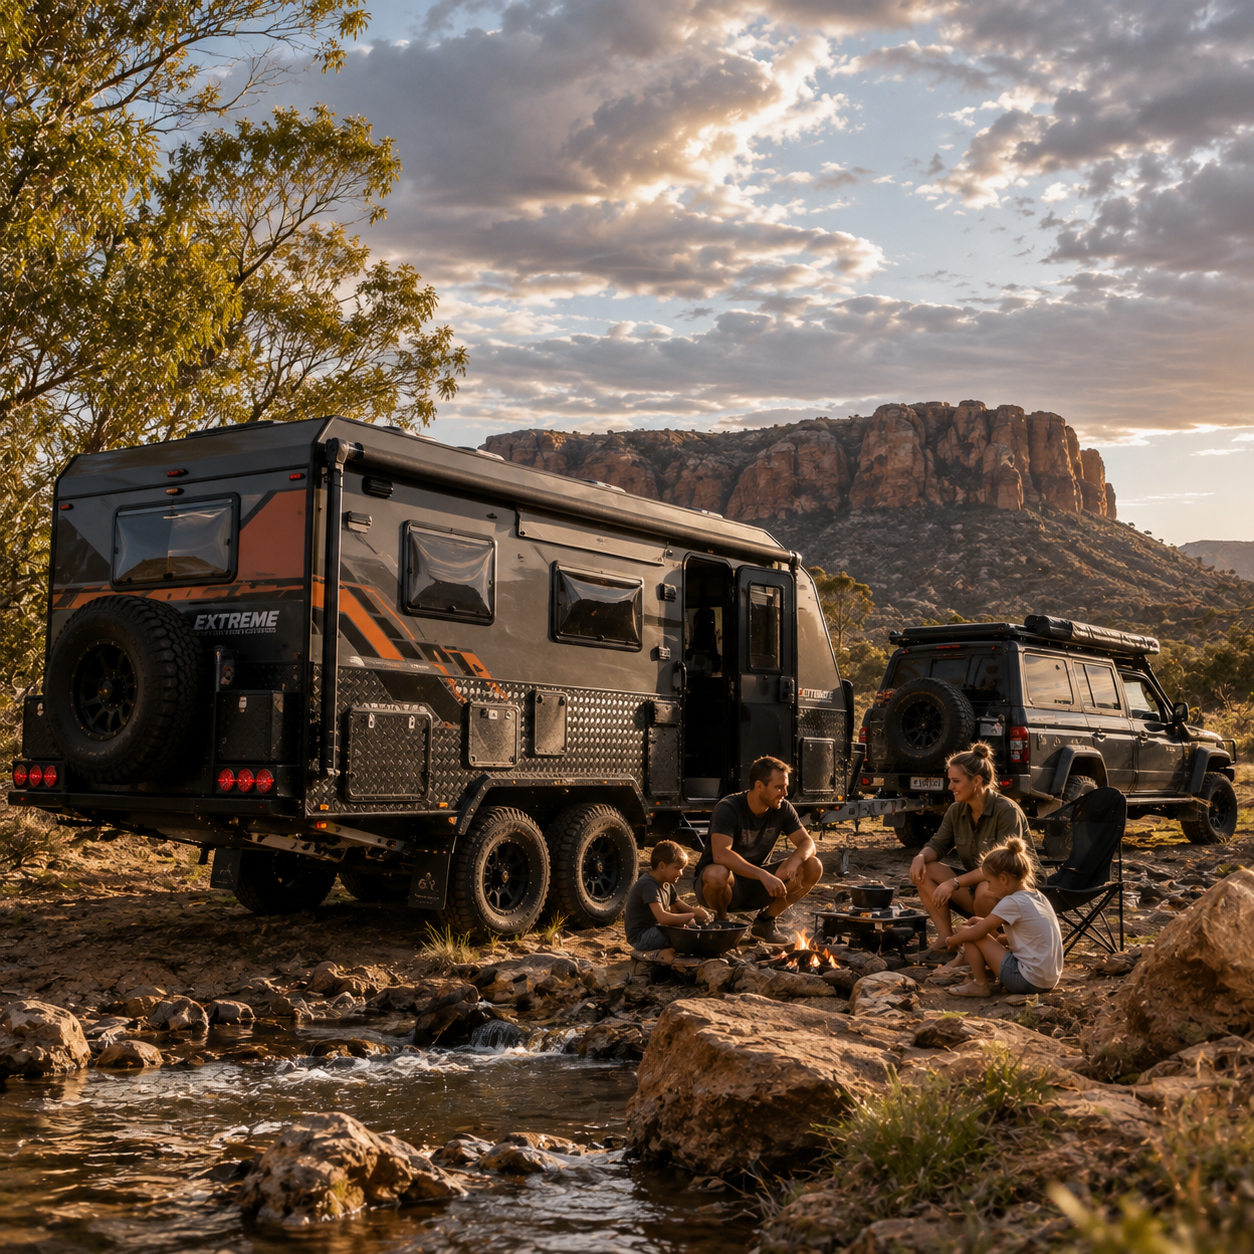
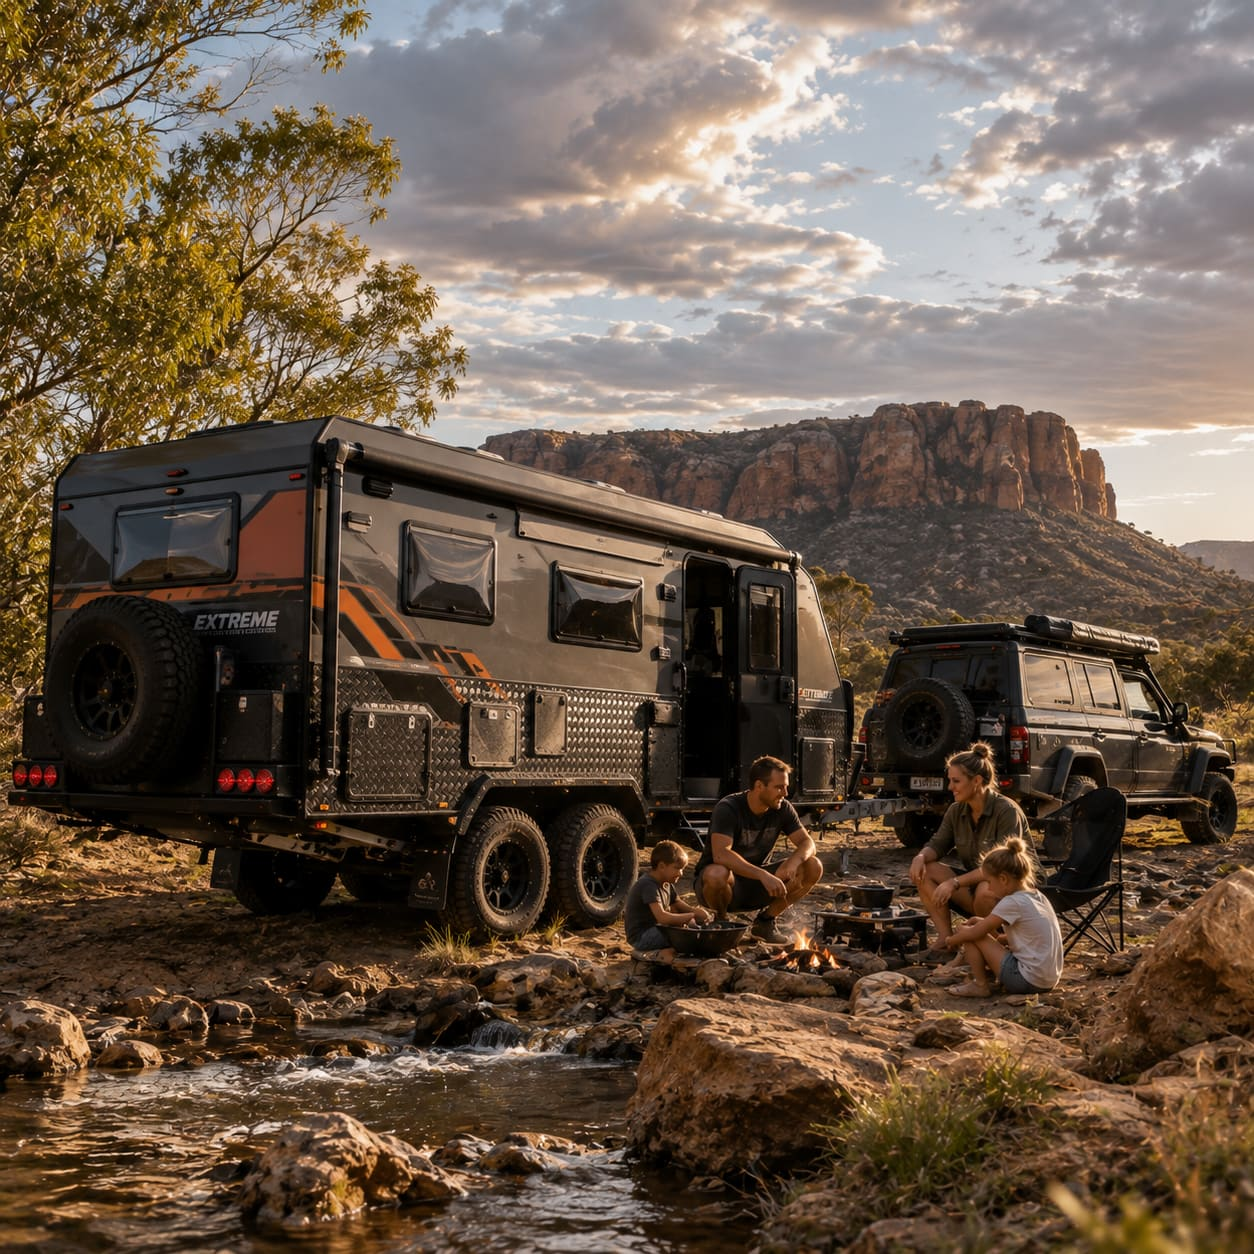
Fix Ahrefs on-page issues: OG/Twitter tags, blog meta fallbacks, email obfuscation, links, images
- og/twitter tags for listings and static pages; blog pages get fallback
  title/description and full OG/Twitter metadata
- ObfuscatedEmail replaces raw emails (Cloudflare email-protection 404)
- trailing slash on policy links, skeleton h1 -> div on product pages
- blog location pills hide empty (410) category combinations
- recompress oversized public images

diff --git a/src/app/layout.tsx b/src/app/layout.tsx
@@ -235,8 +235,9 @@ const RESERVED_TOP_LEVEL_SLUGS = new Set([
     }
 
     // Static pages whose metadata ends up after </head> due to streaming — inject directly
-    const STATIC_META: Record<string, { title: string; description: string; canonical: string }> = {
+    const STATIC_META: Record<string, { title: string; description: string; canonical: string; ownSocialImage?: boolean }> = {
       "/caravan-manufacturers/": {
+        ownSocialImage: true, // page.tsx metadata renders og:image + twitter card
         title: "Top 10 Caravan Manufacturers in Australia: Best Brands of 2024",
         description: "See how top Australian caravan manufacturers excel with the best in innovative designs, quality construction, cost efficiency, and expert craftsmanship.",
         canonical: "https://www.caravansforsale.com.au/caravan-manufacturers/",
@@ -248,6 +249,26 @@ const RESERVED_TOP_LEVEL_SLUGS = new Set([
       },
     };
     const staticMeta = STATIC_META[pathname] ?? null;
+
+    // og:type / og:image / twitter:card / twitter:image for pages whose head tags are
+    // injected here (listings, static pages) — without them Ahrefs flags Open Graph and
+    // X (Twitter) card tags as incomplete. Same image the home page and metaFromSlug use.
+    const SOCIAL_IMAGE = "https://www.caravansforsale.com.au/images/cfs-logo.png";
+    const SOCIAL_IMAGE_ALT = "Caravans for Sale Australia";
+    const socialTags = (
+      <>
+        <meta property="og:type" content="website" />
+        <meta property="og:image" content={SOCIAL_IMAGE} />
+        <meta property="og:image:width" content="800" />
+        <meta property="og:image:height" content="600" />
+        <meta property="og:image:alt" content={SOCIAL_IMAGE_ALT} />
+        <meta name="twitter:card" content="summary_large_image" />
+        <meta name="twitter:image" content={SOCIAL_IMAGE} />
+        <meta name="twitter:image:width" content="800" />
+        <meta name="twitter:image:height" content="600" />
+        <meta name="twitter:image:alt" content={SOCIAL_IMAGE_ALT} />
+      </>
+    );
 
     let productMeta = { title: "", description: "", canonical: "", ogImage: "" };
     let productJsonLd: Record<string, unknown> | null = null;
@@ -378,6 +399,7 @@ const RESERVED_TOP_LEVEL_SLUGS = new Set([
           {staticMeta && <meta property="og:url" content={staticMeta.canonical} />}
           {staticMeta && <meta name="twitter:title" content={staticMeta.title} />}
           {staticMeta && <meta name="twitter:description" content={staticMeta.description} />}
+          {staticMeta && !staticMeta.ownSocialImage && socialTags}
           {/* Product page SEO — injected here to avoid metadata-in-body streaming issue */}
           {isProductPage && productMeta.title && <title>{productMeta.title}</title>}
           {isProductPage && productMeta.description && <meta name="description" content={productMeta.description} />}
@@ -399,6 +421,7 @@ const RESERVED_TOP_LEVEL_SLUGS = new Set([
           {hasSlugMeta && slugCanonical && <meta property="og:url" content={slugCanonical} />}
           {hasSlugMeta && slugTitle && <meta name="twitter:title" content={slugTitle} />}
           {hasSlugMeta && slugDescription && <meta name="twitter:description" content={slugDescription} />}
+          {hasSlugMeta && socialTags}
           {/* Home page JSON-LD */}
           {isHomePage && (
             <script

diff --git a/src/app/[slug]/details.tsx b/src/app/[slug]/details.tsx
@@ -10,6 +10,7 @@
  import { useEffect, useRef, useState } from "react";
  import { formatPostDate } from "@/utils/date";
  import { useBanners } from "@/components/BannerHandler";
+import liveCategoryLinks from "../../../cfs-paths/live-category-links.json";
  import { useBannerTracking } from "@/hooks/useBannerTracking";
  
  // WP occasionally stores an image URL with a doubled protocol
@@ -28,7 +29,15 @@
    regions?: BrowseLink[];
  };
  
- const CAT_MAJOR_CITIES = [
+ // Category + state / region combinations that currently have stock (snapshot kept fresh by
+// scripts/sync-live-listings.js). The "by location" / "by state" blocks only link to these —
+// an empty combination answers 410, which showed up as hundreds of broken internal links.
+// An empty snapshot (should never happen) keeps every link.
+const LIVE_CAT_LINKS = new Set<string>(liveCategoryLinks as string[]);
+const hasStock = (href: string) =>
+  LIVE_CAT_LINKS.size === 0 || LIVE_CAT_LINKS.has(href.replace(/^https?:\/\/[^/]+/, ""));
+
+const CAT_MAJOR_CITIES = [
    { name: "Adelaide",       img: "/images/Adelaide.png",   state: "south-australia-state",           region: "adelaide-region" },
    { name: "Brisbane",       img: "/images/Brisbane.png",   state: "queensland-state",                region: "brisbane-region" },
    { name: "Gold Coast",     img: "/images/Gold-Coast.png", state: "queensland-state",                region: "gold-coast-region" },
@@ -694,7 +703,7 @@
            <div className="container">
              <h2 className="bds-cat-title">Find {catLabel} Caravans by Popular Location</h2>
              <div className="bds-cat-loc__major">
-               {CAT_MAJOR_CITIES.map((city) => (
+               {CAT_MAJOR_CITIES.filter((city) => hasStock(`${catLink}${city.state}/${city.region}/`)).map((city) => (
                  <a key={city.name} href={`${catLink}${city.state}/${city.region}/`} className="bds-cat-city-card">
                    <div className="bds-cat-city-img-wrap">
                      <img src={city.img} alt={city.name} className="bds-cat-city-img" loading="lazy" />
@@ -704,7 +713,7 @@
                ))}
              </div>
              <div className="bds-cat-loc__minor">
-               {CAT_MINOR_CITIES.map((city) => (
+               {CAT_MINOR_CITIES.filter((city) => hasStock(`${catLink}${city.state}/${city.region ? city.region + "/" : ""}`)).map((city) => (
                  <a key={city.name} href={`${catLink}${city.state}/${city.region ? city.region + "/" : ""}`} className="bds-cat-minor-pill">
                    {catLabel} Caravans in {city.name}
                  </a>
@@ -720,7 +729,7 @@
            <div className="container">
              <h2 className="bds-cat-title">Find {catLabel} Caravans by State</h2>
              <div className="bds-cat-state__grid">
-               {CAT_STATES.map((s) => (
+               {CAT_STATES.filter((s) => hasStock(`${catLink}${s.slug}/`)).map((s) => (
                  <a key={s.name} href={`${catLink}${s.slug}/`} className="bds-cat-state-card">
                    <img src={s.img} alt={s.name} className="bds-cat-state-img" loading="lazy" />
                    <span className="bds-cat-state-name">{catLabel} Caravans in {s.name}</span>

diff --git a/src/app/[slug]/page.tsx b/src/app/[slug]/page.tsx
@@ -50,9 +50,19 @@ export async function generateMetadata({
   const data = await fetchBlogDetail(slug);
 
   const seo = data?.seo ?? data?.product?.seo ?? {};
+  // The blog API nests the post under data.blog_detail; many posts have no SEO title /
+  // description set (seo.metatitle is null), so fall back to the post's own title and
+  // excerpt before the generic strings (otherwise ~100 pages showed "Product - Caravans
+  // for Sale" / "View caravan details.").
+  const post = data?.data?.blog_detail ?? {};
+  const excerpt =
+    typeof post.excerpt === "string"
+      ? post.excerpt.replace(/<[^>]*>/g, " ").replace(/&nbsp;/g, " ").replace(/\s+/g, " ").trim()
+      : "";
   const title =
     seo.metatitle ||
     seo.meta_title ||
+    post.title ||
     data?.title ||
     data?.name ||
     "Product - Caravans for Sale";
@@ -60,10 +70,15 @@ export async function generateMetadata({
   const description =
     seo.metadescription ||
     seo.meta_description ||
+    (excerpt.length > 155 ? excerpt.slice(0, 152).replace(/\s+\S*$/, "") + "..." : excerpt) ||
     data?.short_description ||
     "View caravan details.";
   const robots = "index, follow";
   const canonicalUrl = `https://www.caravansforsale.com.au/${slug}/`;
+  const ogImage: string =
+    (typeof post.featured_image === "string" && post.featured_image) ||
+    (typeof post.image === "string" && post.image) ||
+    "https://www.caravansforsale.com.au/images/cfs-logo.png";
   console.log("generateMetadata", { title, description, robots, canonicalUrl });
   return {
     title,
@@ -78,14 +93,15 @@ export async function generateMetadata({
     openGraph: {
       title,
       description,
+      url: canonicalUrl,
+      type: "article",
+      images: [{ url: ogImage }],
     },
     twitter: {
-      card: "summary", // no image card
+      card: "summary_large_image",
       title,
       description,
-    },
-    other: {
-      "og:type": "blog",
+      images: [ogImage],
     },
   };
 }

diff --git a/src/app/components/ObfuscatedEmail.tsx b/src/app/components/ObfuscatedEmail.tsx
@@ -1,0 +1,47 @@
+"use client";
+
+import { useEffect, useState } from "react";
+
+/**
+ * Shows an email address as a mailto: link without ever putting the address
+ * in the server-rendered HTML.
+ *
+ * Cloudflare's Email Address Obfuscation rewrites every address / mailto: link
+ * it finds in the HTML into /cdn-cgi/l/email-protection, a URL that is 404 to
+ * crawlers (Ahrefs reports it as a broken internal link on each page that has
+ * an address). The server HTML splits the address around a <span> so there is
+ * nothing for Cloudflare to match; once mounted, the real mailto: link is
+ * rendered in its place.
+ */
+export default function ObfuscatedEmail({
+  user,
+  domain,
+  newTab = false,
+}: {
+  user: string;
+  domain: string;
+  newTab?: boolean;
+}) {
+  const [ready, setReady] = useState(false);
+  useEffect(() => setReady(true), []);
+
+  if (!ready) {
+    return (
+      <span>
+        {user}
+        <span>@</span>
+        {domain}
+      </span>
+    );
+  }
+
+  const address = `${user}@${domain}`;
+  return (
+    <a
+      href={`mailto:${address}`}
+      {...(newTab && { target: "_blank", rel: "noreferrer noopener" })}
+    >
+      {address}
+    </a>
+  );
+}

diff --git a/src/app/components/ListContent/exculsiveContent.tsx b/src/app/components/ListContent/exculsiveContent.tsx
@@ -819,15 +819,15 @@ export default function ExculisiveContent({
                   <p className="terms_text">
                     By clicking &lsquo;Send Enquiry&lsquo;, you agree to Caravan
                     Marketplace{" "}
-                    <Link href="/privacy-collection-statement" target="_blank">
+                    <Link href="/privacy-collection-statement/" target="_blank">
                       Collection Statement
                     </Link>
                     ,{" "}
-                    <Link href="/privacy-policy" target="_blank">
+                    <Link href="/privacy-policy/" target="_blank">
                       Privacy Policy
                     </Link>{" "}
                     and{" "}
-                    <Link href="/terms-conditions" target="_blank">
+                    <Link href="/terms-conditions/" target="_blank">
                       Terms and Conditions
                     </Link>
                     .

diff --git a/src/app/listings/StateListingGrid.tsx b/src/app/listings/StateListingGrid.tsx
@@ -217,9 +217,9 @@ export function ContactModal({ item, onClose }: { item: Listing; onClose: () => 
 
               <p className="terms_text">
                 By clicking &apos;Send Enquiry&apos;, you agree to Marketplace Network{" "}
-                <a href="/privacy-collection-statement" target="_blank" rel="noopener">Collection Statement</a>,{" "}
-                <a href="/privacy-policy" target="_blank" rel="noopener">Privacy Policy</a> and{" "}
-                <a href="/terms-conditions" target="_blank" rel="noopener">Terms and Conditions</a>.
+                <a href="/privacy-collection-statement/" target="_blank" rel="noopener">Collection Statement</a>,{" "}
+                <a href="/privacy-policy/" target="_blank" rel="noopener">Privacy Policy</a> and{" "}
+                <a href="/terms-conditions/" target="_blank" rel="noopener">Terms and Conditions</a>.
               </p>
 
               <div className="submit-btn">

diff --git a/src/app/about-us/about.tsx b/src/app/about-us/about.tsx
@@ -1,7 +1,7 @@
 'use client'
 
 
-import Link from 'next/link'
+import ObfuscatedEmail from "@/app/components/ObfuscatedEmail";
 
 export default function AboutUs() {
   return (
@@ -73,13 +73,7 @@ export default function AboutUs() {
                 available to assist you with any questions, concerns, or inquiries.
                 We’re here to ensure your experience with Marketplace Network is smooth
                 and satisfactory. Please email your queries to{' '}
-                <Link
-                  href="mailto:info@caravansforsale.com.au"
-                  target="_blank"
-                  rel="noreferrer noopener"
-                >
-                  info@caravansforsale.com.au
-                </Link>
+                <ObfuscatedEmail user="info" domain="caravansforsale.com.au" newTab />
               </p>
 
               <h4 className="wp-block-heading">Browse Marketplace Network Today</h4>

diff --git a/src/app/product/[slug]/loading.tsx b/src/app/product/[slug]/loading.tsx
@@ -35,9 +35,10 @@ export default async function ProductLoading() {
         <div style={{ background: "#fff", minHeight: "100vh", paddingBottom: 60 }}>
           <div style={{ maxWidth: 1320, margin: "0 auto", padding: "0 15px" }}>
 
-            <h1 style={{ fontSize: 24, fontWeight: 700, color: "#000", margin: "28px 0 8px", lineHeight: 1.3 }}>
+            {/* a <div>, not <h1>: this skeleton stays in the streamed HTML next to the real <h1 className="pdd-title"> (Ahrefs: multiple H1 tags) */}
+            <div style={{ fontSize: 24, fontWeight: 700, color: "#000", margin: "28px 0 8px", lineHeight: 1.3 }}>
               {title}
-            </h1>
+            </div>
 
             <div style={{ display: "flex", gap: 10, alignItems: "center", marginBottom: 14 }}>
               <Skel h={14} w={180} style={{ borderRadius: 4 }} />

diff --git a/src/app/product/[slug]/product.tsx b/src/app/product/[slug]/product.tsx
@@ -839,12 +839,12 @@ export default function ClientLogger({
                         </button>
                   <p className="terms_text small">
                     By clicking 'Send Enquiry', you agree to Marketplace Network
-                    <a href="/privacy-collection-statement">
+                    <a href="/privacy-collection-statement/">
                       {" "}
                       Collection Statement
                     </a>
-                    , <a href="/privacy-policy">Privacy Policy</a>, and{" "}
-                    <a href="/terms-conditions">Terms and Conditions</a>.
+                    , <a href="/privacy-policy/">Privacy Policy</a>, and{" "}
+                    <a href="/terms-conditions/">Terms and Conditions</a>.
                   </p>
                 </div>
               </div>

diff --git a/src/app/product/[slug]/CaravanDetailModal.tsx b/src/app/product/[slug]/CaravanDetailModal.tsx
@@ -561,12 +561,12 @@ export default function CaravanDetailModal({
             <p className="terms_text">
               By clicking &apos;Send Enquiry&apos;, you agree to Marketplace
               Network{" "}
-              <a href="/privacy-collection-statement" target="_blank">
+              <a href="/privacy-collection-statement/" target="_blank">
                 Collection Statement
               </a>
               ,{" "}
-              <a href="/privacy-policy" target="_blank">Privacy Policy</a> and{" "}
-              <a href="/terms-conditions" target="_blank">Terms and Conditions</a>.
+              <a href="/privacy-policy/" target="_blank">Privacy Policy</a> and{" "}
+              <a href="/terms-conditions/" target="_blank">Terms and Conditions</a>.
             </p>
 
             <button

diff --git a/src/app/product-detail-demo/ProductDetailDemo.tsx b/src/app/product-detail-demo/ProductDetailDemo.tsx
@@ -975,9 +975,9 @@ const priceUpperIdx = !isPOA ? PRICE_STEPS.findIndex(s => s >= displayPrice) : -
       </button>
       <p className="pdd-mobile-bottom-bar__terms">
         By clicking &apos;Send Enquiry&apos;, you agree to Marketplace Network{" "}
-        <a href="/privacy-collection-statement" target="_blank">Collection Statement</a>,{" "}
-        <a href="/privacy-policy" target="_blank">Privacy Policy</a> and{" "}
-        <a href="/terms-conditions" target="_blank">Terms and Conditions</a>.
+        <a href="/privacy-collection-statement/" target="_blank">Collection Statement</a>,{" "}
+        <a href="/privacy-policy/" target="_blank">Privacy Policy</a> and{" "}
+        <a href="/terms-conditions/" target="_blank">Terms and Conditions</a>.
       </p>
     </div>
 

diff --git a/src/app/privacy-collection-statement/statement.tsx b/src/app/privacy-collection-statement/statement.tsx
@@ -1,6 +1,7 @@
 'use client'
 
 import Link from 'next/link'
+import ObfuscatedEmail from "@/app/components/ObfuscatedEmail";
 
 export default function PrivacyCollectionStatement() {
   return (
@@ -156,9 +157,7 @@ export default function PrivacyCollectionStatement() {
 
               <p>
                 <strong>Email:</strong>{" "}
-                <a href="mailto:admin@marketplacenetwork.com.au">
-                  admin@marketplacenetwork.com.au
-                </a>
+                <ObfuscatedEmail user="admin" domain="marketplacenetwork.com.au" />
               </p>
 
             </div>
